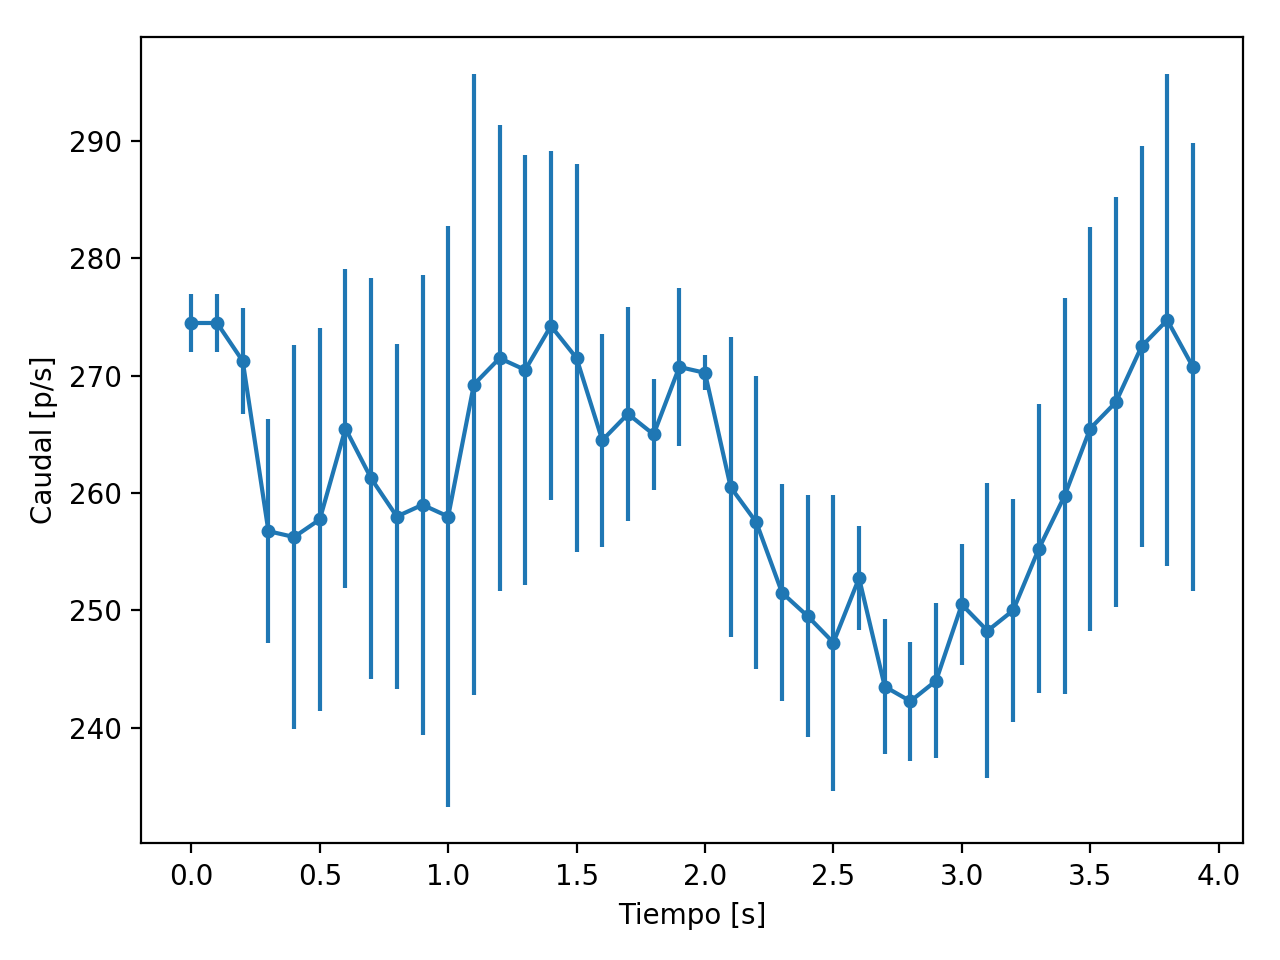
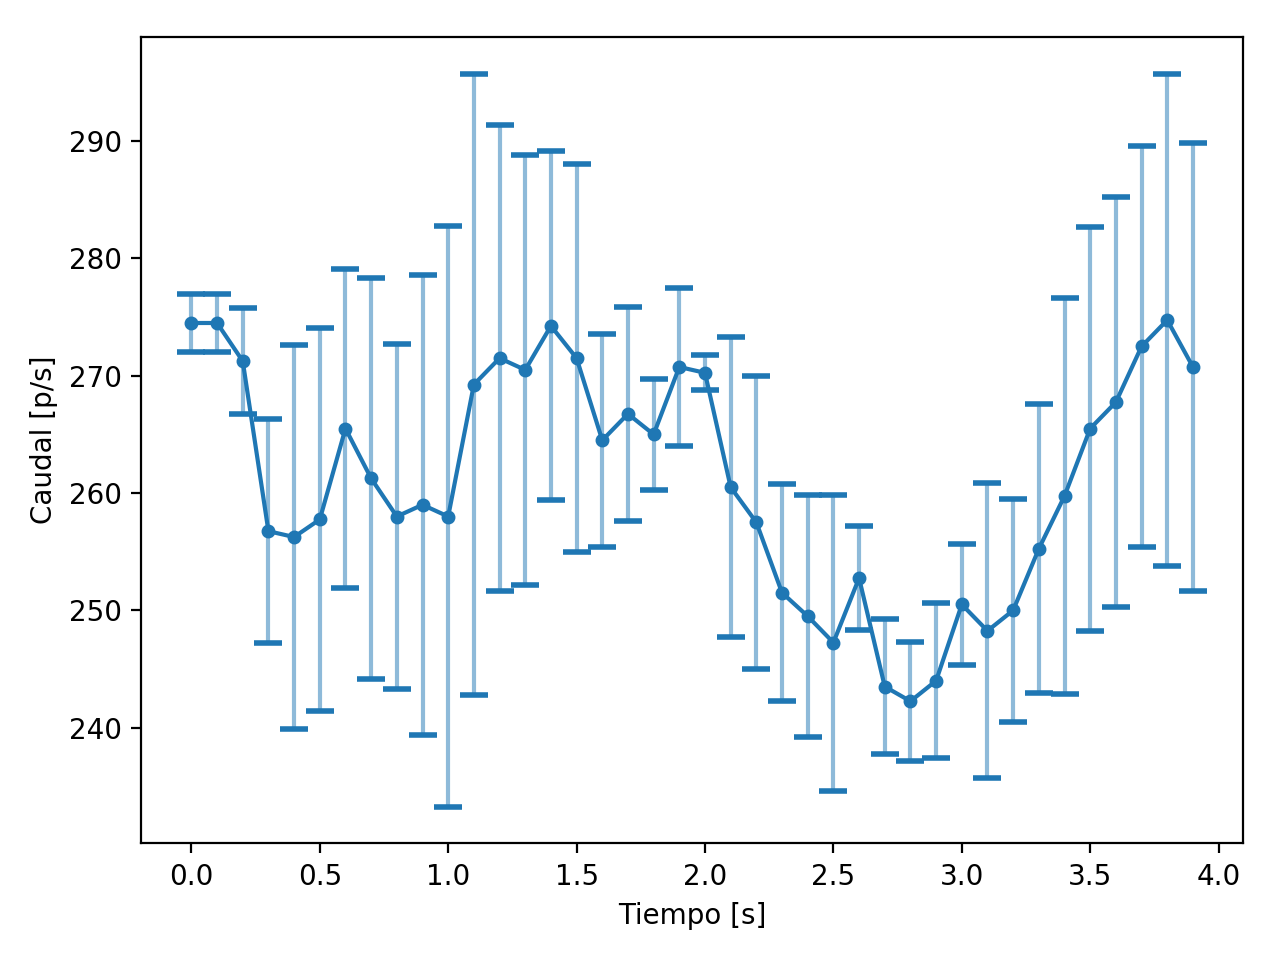
Improve readme

diff --git a/analysis/visualizer.py b/analysis/visualizer.py
@@ -2,7 +2,7 @@ import numpy as np
 import matplotlib.pyplot as plt
 from analyzer import calculateCollisionFrequency, calculateCollisionTimesAverage, calculateProbabilityCollisionTimesDistribution, calculateProbabilityVelocities, calculateDiffusion, calculateKineticEnergy, calculateExitsValues
 from parser import parseDirectoryFromArgs, parseModeFromArgs, parseTimesFile, parseDirectory
-from calculator import errorFn, discreteRange, PDF, mb, averageLists
+from calculator import errorFn, discreteRange, PDF, mb, averageLists, stdevLists
 import os
 import pickle
 
@@ -177,7 +177,8 @@ def tp5_e1a():
   fig, ax = plt.subplots()
   ax.set_ylabel('Caudal [p/s]')
   ax.set_xlabel('Tiempo [s]')
-  ax.errorbar([x * offset for x in range(len(avg))], avg, yerr=err, fmt='o-', markersize=4)
+  markers, caps, bars = ax.errorbar([x * offset for x in range(len(avg))], avg, yerr=err,capsize=5, capthick=2, fmt='o-', markersize=4)
+  [bar.set_alpha(0.5) for bar in bars]
   fig.tight_layout()
   plt.show()
   saveFig(fig, '1_1a')
@@ -185,13 +186,14 @@ def tp5_e1a():
 def tp5_e1b(simulations):
     kineticEnergies = [calculateKineticEnergy(simulation) for simulation in simulations]
     kineticEnergy = averageLists(kineticEnergies)
+    kineticErrs = stdevLists(kineticEnergies)
     dt = 0.005 # seconds
     fig, ax = plt.subplots()
     # ax.set_yscale('log')
     ax.set_ylabel('Energía cinética [J]')
     ax.set_xlabel('Tiempo [s]')
     fig.tight_layout()
-    ax.plot([x * dt for x in range(len(kineticEnergy))], kineticEnergy, 'o-', markersize=4)
+    ax.plot([x * dt for x in range(len(kineticEnergy))], kineticEnergy, 'o-', markersize=3)
     saveFig(fig, '1_1b')
 
 def tp5_e1c(simulations):
@@ -207,9 +209,9 @@ def tp5_e1c(simulations):
     saveFig(fig, '1_1b')
 
 def bev():
-  xs = [0.15, 0.17, 0.22, 0.25]
-  ys = [1, 2, 3, 4]
-  err = [0.1, 0.1, 0.1, 0.1]
+  xs = [0.15, 0.17, 0.22, 0.25] # Acá van los valores usados de D 
+  ys = [1, 2, 3, 4] # Acá van los valores de caudales para cada D
+  err = [0.1, 0.1, 0.1, 0.1] #Acá van los errores del caudal para cada D
   results, rang = errorFn(xs, ys)
   fig, ax = plt.subplots()
   ax.set_ylabel('Caudal promedio [p/s]')
@@ -222,6 +224,10 @@ def bev():
 
 
 def run():
+  print("python analysis/visualizer.py . 6")
+  print("python analysis/visualizer.py analysis/results 7")
+  print("python analysis/visualizer.py analysis/results 8")
+  print("Las imágenes se guardan en la carpeta output de la raiz del proyecto.")
   print("Parse simulations\n")
   # if os.path.exists('22a.tmp'):
   #   print("File exists!\n")
@@ -229,13 +235,14 @@ def run():
   #   simulations = pickle.load(file)
   #   file.close()
   # else:
-  simulations = parseDirectoryFromArgs()
     # file = open('22a.tmp', 'wb')
     # print("Saving file\n")
     # pickle.dump(simulations, file)
     # file.close()
   print("Parse mode\n")
   mode = parseModeFromArgs()
+  if (mode != 6):
+    simulations = parseDirectoryFromArgs()
   if mode == 1:
     ex3_4(simulations)
   elif mode == 2:

diff --git a/README.md b/README.md
@@ -11,9 +11,11 @@ También puede importarse el proyecto desde una IDE.
 
 ## Visualización
 
-Asegurarse de correr el programa en modo `Single Run` y de que al finalizarse la ejecución se haya creado un archivo llamado `ovito_output.xyz`
+Correr `python analysis/runner.py`. Esto va a crear 3 * 10 archivos en la raiz del proyecto con simulaciones de 5 segundos. Luego, eliminar los que terminan en `-input`. Mover a `analysis/results` los `.xyz` y a `analysis/exits` los que terminan en `.txt`.
 
-Es necesario tener Ovito instalado.
+Después se puede correr
+* `python analysis/visualizer . 6` para calcular el caudal)
+* `python analysis/visualizer analysis/results 7` para calcular la energia cinetica)
 
 Comandos:
 ```bash
